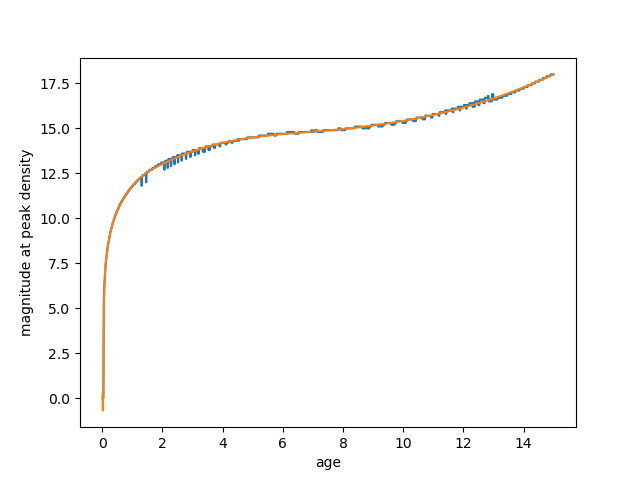
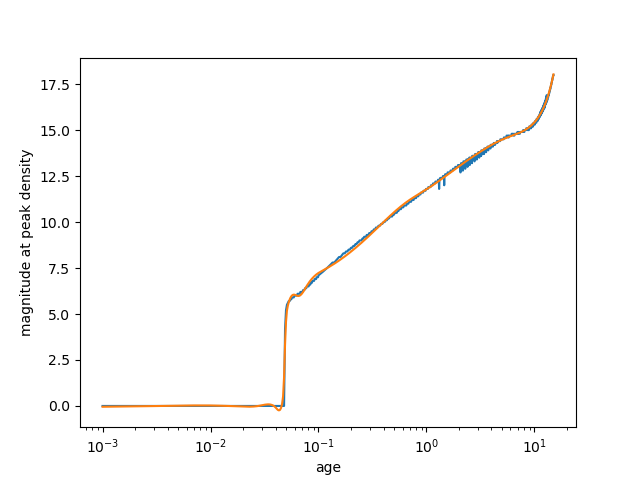
fixed wrong star burst durations.

diff --git a/find_pwdlf_resolution.py b/find_pwdlf_resolution.py
@@ -7,8 +7,26 @@ from scipy import interpolate
 
 
 data = []
-age = np.arange(0.01, 15.00, 0.01)
-for i in age:
+age_list_1 = np.arange(0.001, 0.100, 0.001)
+age_list_2 = np.arange(0.100, 0.350, 0.005)
+age_list_3 = np.arange(0.35, 15.01, 0.01)
+age_list_3dp = np.concatenate((age_list_1, age_list_2))
+age_list_2dp = age_list_3
+
+age = np.concatenate((age_list_3dp, age_list_2dp))
+
+for i in age_list_3dp:
+    data.append(
+        np.loadtxt(
+            os.path.join(
+                "output",
+                f"montreal_co_da_20_K01_PARSECz0014_C08_{i:.3f}_Mbol.csv",
+            ),
+            delimiter=",",
+        )
+    )
+
+for i in age_list_2dp:
     data.append(
         np.loadtxt(
             os.path.join(
@@ -33,21 +51,25 @@ mag_resolution_itp = interpolate.UnivariateSpline(
 
 
 plt.figure(1)
+plt.clf()
 plt.plot(age, mag_at_peak_density, label="Measured")
 plt.plot(age, mag_resolution_itp(age), label="Fitted")
 plt.xlabel("age")
 plt.ylabel("magnitude at peak density")
+plt.xscale('log')
 plt.savefig("age_peak_density.png")
 
 
 plt.figure(2)
+plt.clf()
 plt.plot(
-    age[31:],
-    mag_resolution_itp(age[31:]) - mag_resolution_itp(age[30:-1]),
+    age[1:],
+    mag_resolution_itp(age[1:]) - mag_resolution_itp(age[:-1]),
     label="Fitted",
 )
 plt.xlabel("age")
 plt.ylabel("magnitude resolution at peak density")
+plt.xscale('log')
 plt.savefig("age_peak_density_resolution.png")
 
 
@@ -62,14 +84,13 @@ stop = False
 for i, a in enumerate(age):
     if i < j:
         continue
-    print(i)
     start = mag_resolution_itp(a)
     end = start
     j = i
     carry_on = True
     while carry_on:
         tmp = mag_resolution_itp(age[j+1]) - mag_resolution_itp(age[j])
-        print(j, end, tmp, end+tmp)
+        print(j, end + tmp - start)
         if end + tmp - start < 0.0849257:
             end = end + tmp
             j += 1

diff --git a/partial_lf.py b/partial_lf.py
@@ -25,23 +25,32 @@ Mag = np.arange(0.0, 20.0, 0.1)
 age_list_1 = 1e9 * np.arange(0.001, 0.100, 0.001)
 age_list_2 = 1e9 * np.arange(0.100, 0.350, 0.005)
 age_list_3 = 1e9 * np.arange(0.350, 15.01, 0.01)
-# age_list = np.concatenate((age_list_1, age_list_2, age_list_3))
-age_list = np.concatenate((age_list_1, age_list_2))
+
+age_list_1_bin_size = np.ones_like(age_list_1) * 1e9 * 0.001
+age_list_2_bin_size = np.ones_like(age_list_1) * 1e9 * 0.005
+age_list_3_bin_size = np.ones_like(age_list_1) * 1e9 * 0.01
+
+# age_list = np.concatenate((age_list_1_bin_size, age_list_2_bin_size, age_list_3_bin_size))
+age_list = np.concatenate((age_list_1_bin_size, age_list_2_bin_size))
+
+# age_list_bin_size = np.concatenate((age_list_1, age_list_2, age_list_3))
+age_list_bin_size = np.concatenate((age_list_1, age_list_2))
 
 age_list_per_rank = np.array_split(age_list, size)[my_rank]
+age_list_bin_size_per_rank = np.array_split(age_list_bin_size, size)[my_rank]
 
-for age in age_list_per_rank:
+for age, bin_size in zip(age_list_per_rank, age_list_bin_size_per_rank):
     sys.stdout.write(f"Currently computing {age / 1e9} Gyr population.")
     sys.stdout.write("")
     sys.stdout.flush()
-    wdlf.set_sfr_model(mode="burst", age=age, duration=1e7)
+    wdlf.set_sfr_model(mode="burst", age=age, duration=bin_size)
     # WDLF in Mbol
     wdlf.compute_density(
         Mag,
         interpolator="CT",
         normed=False,
-        epsabs=1e-10,
-        epsrel=1e-10,
+        epsabs=1e-12,
+        epsrel=1e-12,
         limit=1000000,
         n_points=10000,
         folder="output",
